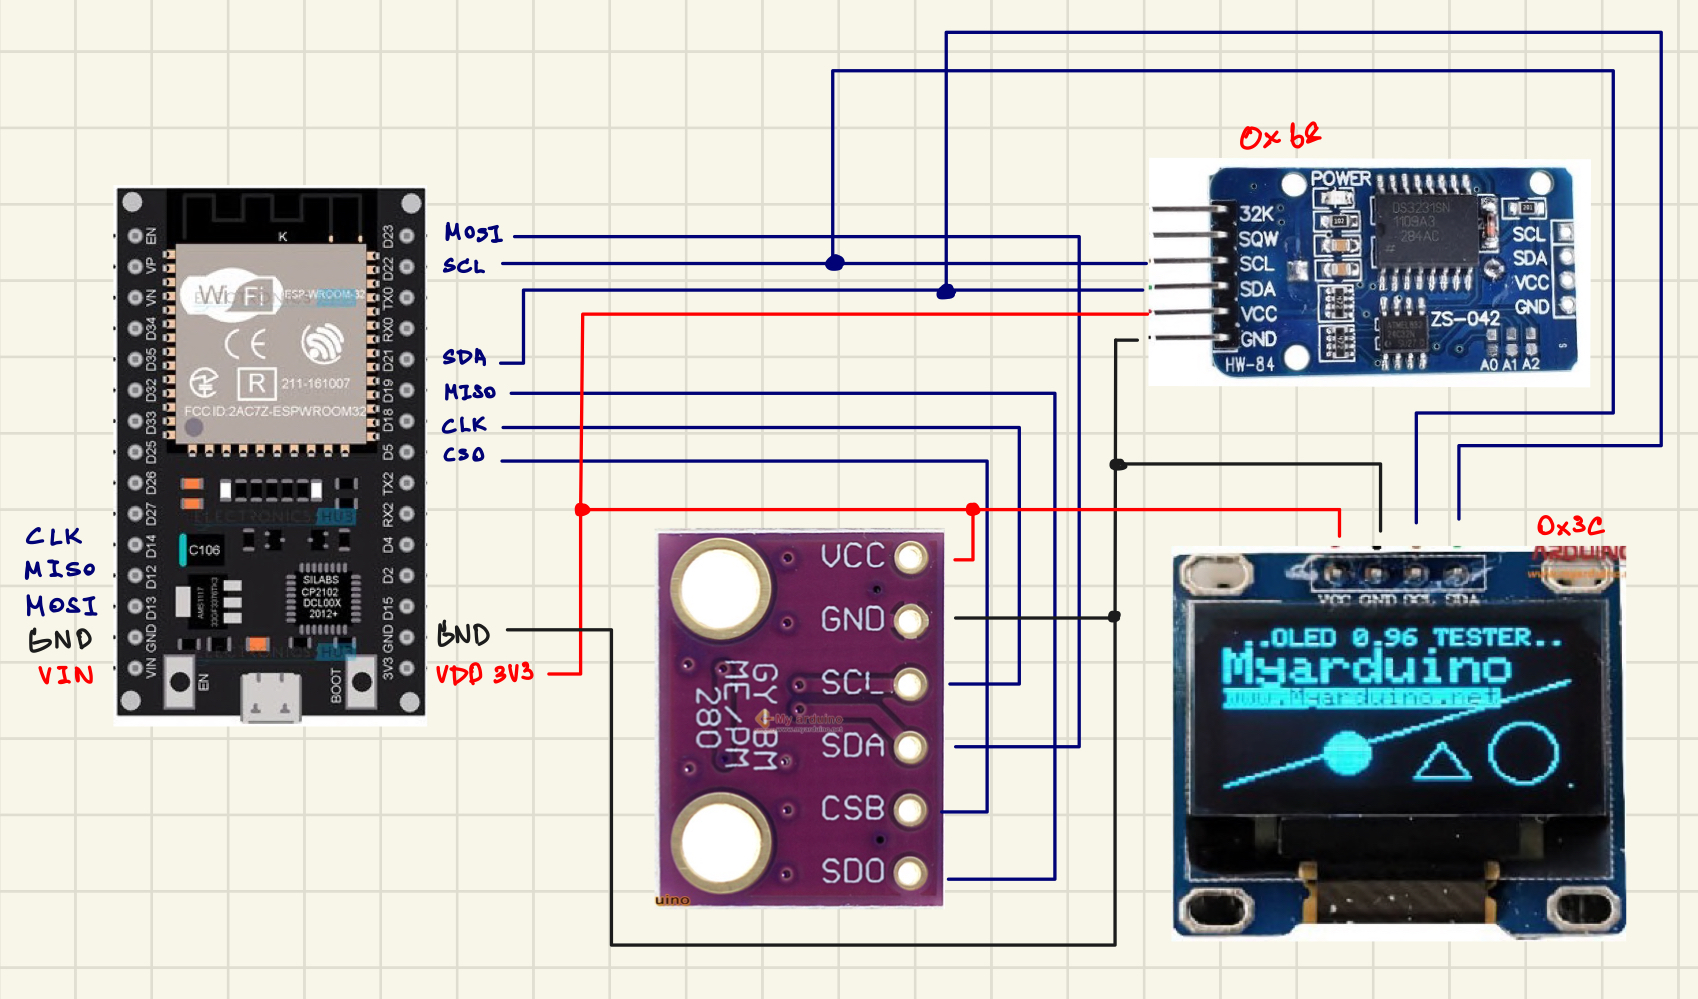
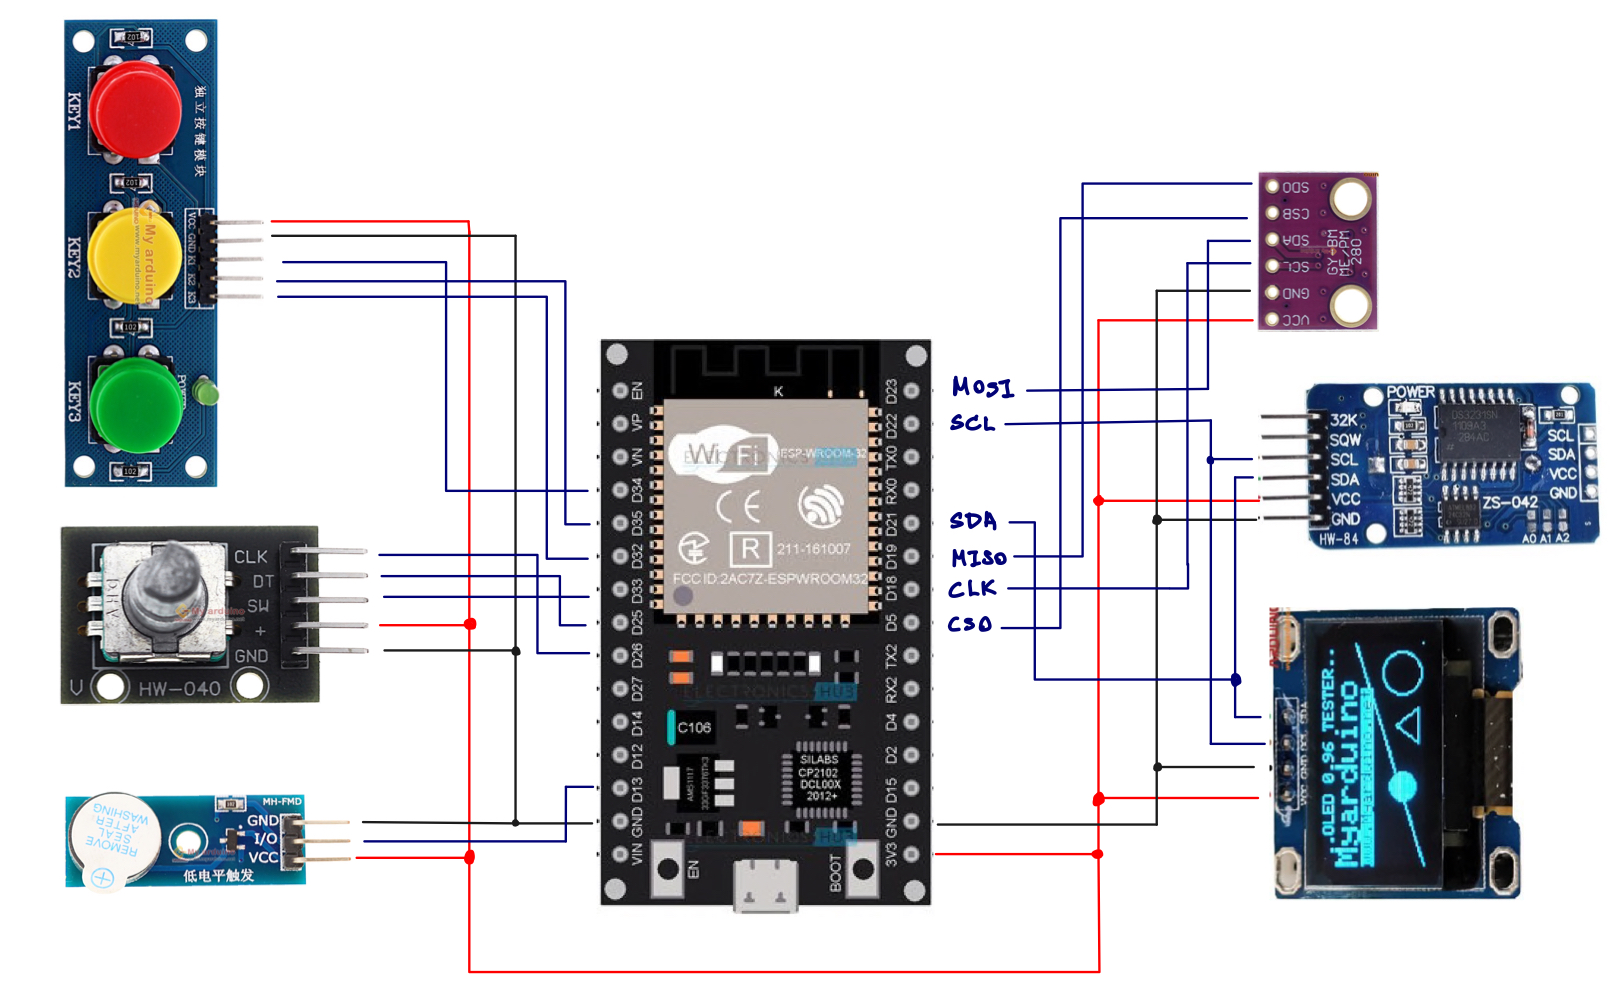
update RTC current dateTime

diff --git a/RTC.h b/RTC.h
@@ -1,6 +1,11 @@
+#include <RTClib.h>  // Include the RTC library
+
 #define DS3231_I2C_ADDR 0x68
 
-uint second, minute, hour, dateOfWeek, dayOfMonth, month, year;
+RTC_DS3231 rtc; // create an RTC_DS3231 object
+
+uint second, minute, hour, dayOfWeek, dayOfMonth, month, year;
+bool firstTime = true;
 
 byte decToBcd(uint val) {
   return ((val / 10 * 16) + (val % 10));
@@ -10,7 +15,7 @@ uint bcdToDec(byte val) {
   return ((val / 16 * 10) + (val % 16));
 }
 
-void setTime(uint second, uint minute, uint hour, uint dateOfWeek, uint dayOfMonth, uint month, uint year) {
+void setTime(uint second, uint minute, uint hour, uint dayOfWeek, uint dayOfMonth, uint month, uint year) {
   Wire.beginTransmission(DS3231_I2C_ADDR);
   // all 8 bits set to 0
   Wire.write(0);
@@ -21,7 +26,7 @@ void setTime(uint second, uint minute, uint hour, uint dateOfWeek, uint dayOfMon
   // set hours
   Wire.write(decToBcd(hour));
   // set day of week (1=Sunday, 7=Saturday)
-  Wire.write(decToBcd(dateOfWeek));
+  Wire.write(decToBcd(dayOfWeek));
   // set date (1 to 31)
   Wire.write(decToBcd(dayOfMonth));
   // set month
@@ -31,7 +36,7 @@ void setTime(uint second, uint minute, uint hour, uint dateOfWeek, uint dayOfMon
   Wire.endTransmission();
 }
 
-void readTime(uint *second, uint *minute, uint *hour, uint *dateOfWeek, uint *dayOfMonth, uint *month, uint *year) {
+void readTime(uint *second, uint *minute, uint *hour, uint *dayOfWeek, uint *dayOfMonth, uint *month, uint *year) {
   Wire.beginTransmission(DS3231_I2C_ADDR);
   Wire.write(0);  // set DS3231 register pointer to 00h
   Wire.endTransmission();
@@ -40,14 +45,14 @@ void readTime(uint *second, uint *minute, uint *hour, uint *dateOfWeek, uint *da
   *second = bcdToDec(Wire.read() & 0x7f);
   *minute = bcdToDec(Wire.read());
   *hour = bcdToDec(Wire.read() & 0x3f);
-  *dateOfWeek = bcdToDec(Wire.read());
+  *dayOfWeek = bcdToDec(Wire.read());
   *dayOfMonth = bcdToDec(Wire.read());
   *month = bcdToDec(Wire.read());
   *year = bcdToDec(Wire.read()) + 2000U;
 }
 
 void showTime() {
-  readTime(&second, &minute, &hour, &dateOfWeek, &dayOfMonth, &month, &year);
+  readTime(&second, &minute, &hour, &dayOfWeek, &dayOfMonth, &month, &year);
   Serial.print(hour, DEC);
   Serial.print(":");
   if (minute < 10) {
@@ -66,7 +71,7 @@ void showTime() {
   Serial.print("/");
   Serial.print(year, DEC);
   Serial.print(" Day of week: ");
-  switch (dateOfWeek) {
+  switch (dayOfWeek) {
     case 1:
       Serial.println("Sunday");
       break;
@@ -89,9 +94,9 @@ void showTime() {
       Serial.println("Saturday");
       break;
   }
+}
 
-  // When 20:45
-  // if (hour == 20 && minute == 45) {
-  //   Serial.print("20:45");
-  // }
+time_t getTime() {
+  DateTime now = rtc.now(); // get the current time from the RTC module
+  return now.unixtime(); // return the time in Unix format
 }

diff --git a/buzzer.h b/buzzer.h
@@ -22,11 +22,11 @@ void playSound() {
     // Serial.println(lastMillis - currentMillis);
     if(lastMillis - currentMillis <= interval){
       tone(buzzer, notes[currentNote]);
-      Serial.println("B");
+      // Serial.println("B");
     }      
     if(lastMillis - currentMillis > interval){
       currentNote++;
-      Serial.print("Check : ");
+      // Serial.print("Check : ");
       Serial.println(currentNote);
       currentMillis = millis();
       lastMillis = millis();

diff --git a/README.md b/README.md
@@ -9,6 +9,13 @@ This project for Embedded Systems Design Laboratory.
 - BME280 (SPI) for Temperature, Humidity
 - DS3231 (I2C) for Real Time Clock
 - SSD1306 (I2C) for OLED
+- Buzzer module
+- HW-040 for Rotary encoder module
+- 3 Button module
+
+## Design
+
+![alt text](./image/design.jpg)
 
 ## Schema
 
@@ -16,17 +23,37 @@ This project for Embedded Systems Design Laboratory.
 
 ## Setup
 
-1. Connect SSD1306 to the ESP32. <br>
+1. Connect SSD1306 (I2C) to the ESP32. <br>
    VCC - 3V3 <br>
    GND - GND <br>
    SCL - D22 (SCL) <br>
    SDA - D21 (SDA) <br>
 
-2. Connect DS3231 to the ESP32. <br>
+2. Connect DS3231 (I2C) to the ESP32. <br>
    VCC - 3V3 <br>
    GND - GND <br>
    SCL - D22 (SCL) <br>
    SDA - D21 (SDA) <br>
+
+3. Connect BME280 (SPI) to the ESP32. <br>
+   VCC - 3V3 <br>
+   GND - GND <br>
+   SCL - D18 <br>
+   SDA - D23 (MOSI) <br>
+   CSB - D5 (CS0) <br>
+   SD0 - D19 (MISO) <br>
+
+4. Connect Buzzer module to the ESP32. <br>
+   VCC - 3V3 <br>
+   GND - GND <br>
+   I/O - D13 (GPIO13) <br>
+
+5. Connect 3 Button module to the ESP32. <br>
+   VCC - 3V3 <br>
+   GND - GND <br>
+   K1 - D34 <br>
+   K2 - D35 <br>
+   K3 - D32 <br>
 
 ## Installation
 
@@ -39,6 +66,10 @@ This project for Embedded Systems Design Laboratory.
 4. Install library "ArduinoJson by Benoit Blanchon" for using JSON serialization
 
 5. Install library "TridentTD_Linenotify by TridentTD" for using LINE Notify
+
+6. Install library "JC_Button by Jack Christensen" for debouncing signals.
+
+7. Install library "RTClib by Adafruit" for setting current time
 
 ## Usage
 
